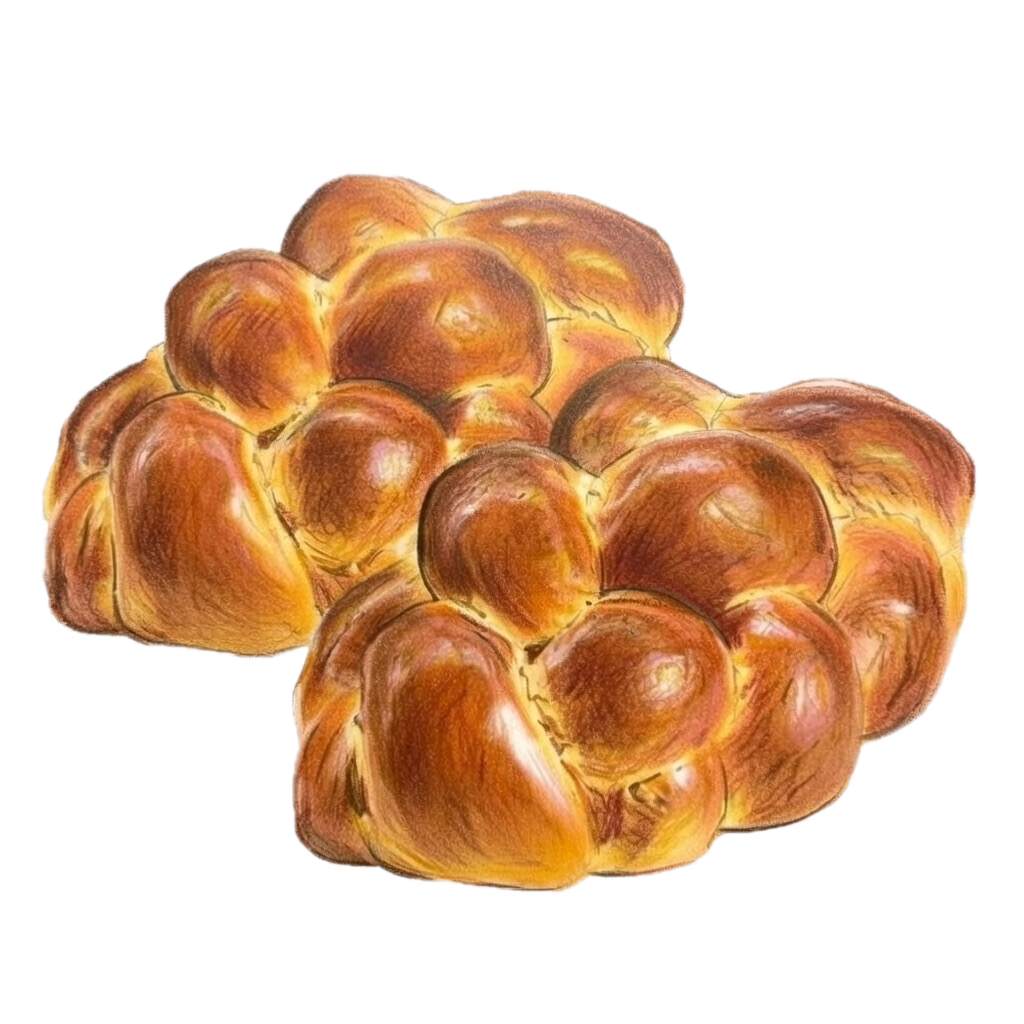
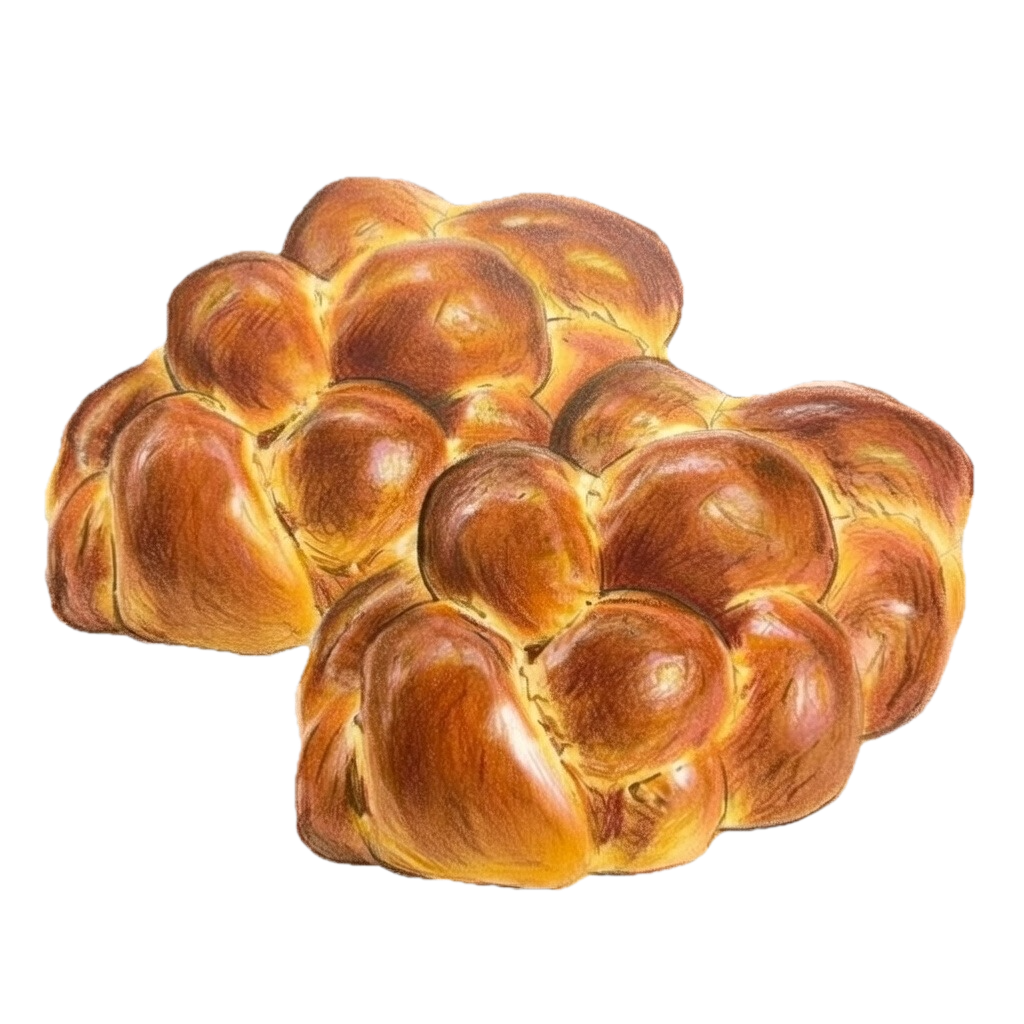
Refresh chala button image

diff --git a/index.html b/index.html
@@ -320,7 +320,7 @@
             </div>
 
             <div class="deed-card deed-card-img" data-deed="challa">
-                <img src="chala_button.png" alt="Challa" class="deed-img">
+                <img src="chala_button.png?v=2" alt="Challa" class="deed-img">
                 <div class="deed-counter">0</div>
             </div>
 
